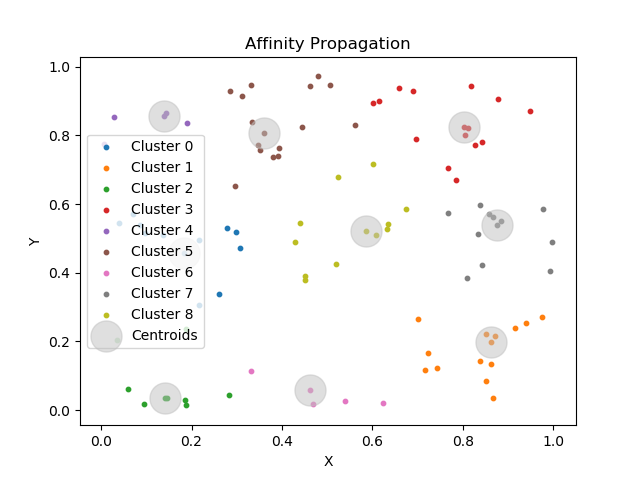
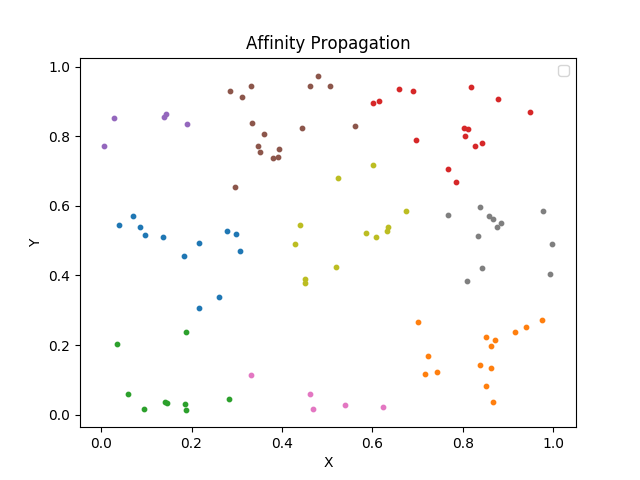
1

diff --git a/affinityPropagation.py b/affinityPropagation.py
@@ -1,20 +1,11 @@
-# -*- coding: utf-8 -*-
-"""
-Created on Thu Jan  4 14:50:40 2018
-
-@author: user1
-"""
-
-# Importing the libraries
 import numpy as np
 import matplotlib.pyplot as plt
 from sklearn.cluster import AffinityPropagation
 
-#plt.close('all')
 
 """
 # Generating the datapoints (2D)
-nDatapoints = 100 #const - number of datapoints
+nDatapoints = 100
 X = np.random.random((nDatapoints,2))
 """
 
@@ -44,8 +35,8 @@ plt.figure(1)
 plt.clf()
 for i in range(0, nClusters):
     class_members = labels == i
-    plt.scatter(X[class_members, 0], X[class_members, 1], s = 10, label = 'Cluster %d' % i)
-plt.scatter(X[clusterCenterIndice, 0], X[clusterCenterIndice, 1], s = 500, c = 'silver', alpha=0.5, label = 'Centroids')
+    plt.scatter(X[class_members, 0], X[class_members, 1], s = 10)
+#plt.scatter(X[clusterCenterIndice, 0], X[clusterCenterIndice, 1], s = 500, c = 'silver', alpha=0.5, label = 'Centroids')
 plt.title('Affinity Propagation')
 plt.xlabel('X')
 plt.ylabel('Y')

diff --git a/kmeans.py b/kmeans.py
@@ -1,11 +1,3 @@
-# -*- coding: utf-8 -*-
-"""
-Created on Wed Mar 14 13:57:21 2018
-
-@author: user1
-"""
-
-# Importing the libraries
 import numpy as np
 import matplotlib.pyplot as plt
 from sklearn.cluster import KMeans
@@ -58,8 +50,8 @@ y_kmeans = kmeans.fit_predict(X)
 plt.figure(2)
 plt.clf()
 for i in range(0, nClusters):
-    plt.scatter(X[y_kmeans == i, 0], X[y_kmeans == i, 1], s = 10, label = 'Cluster %d' % i)
-plt.scatter(kmeans.cluster_centers_[:, 0], kmeans.cluster_centers_[:, 1], s = 500, c = 'silver', alpha=0.5, label = 'Centroids')
+    plt.scatter(X[y_kmeans == i, 0], X[y_kmeans == i, 1], s = 10)
+plt.scatter(kmeans.cluster_centers_[:, 0], kmeans.cluster_centers_[:, 1], s = 500, c = 'silver', alpha=0.5)
 plt.title('K-means Clustering')
 plt.xlabel('X')
 plt.ylabel('Y')
